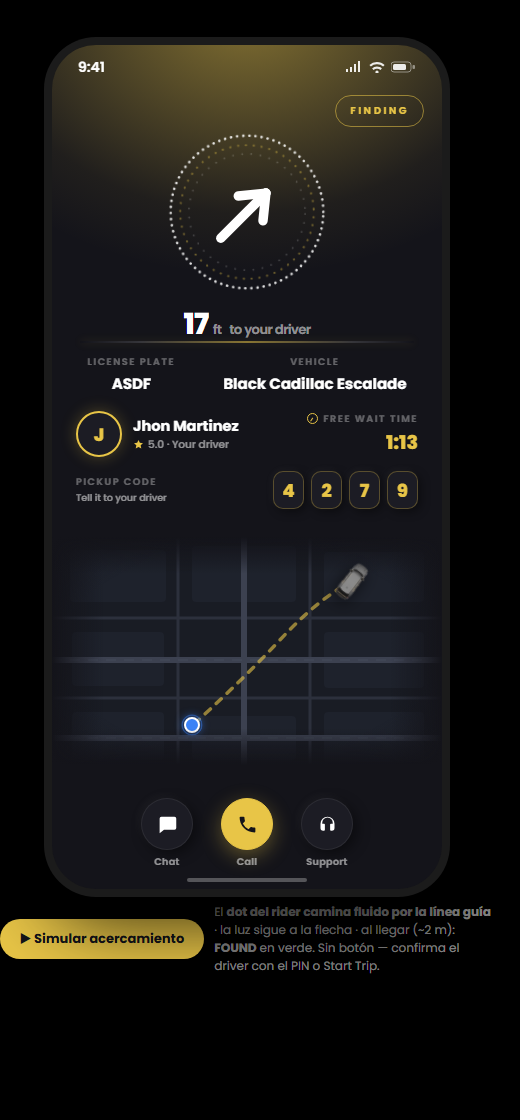
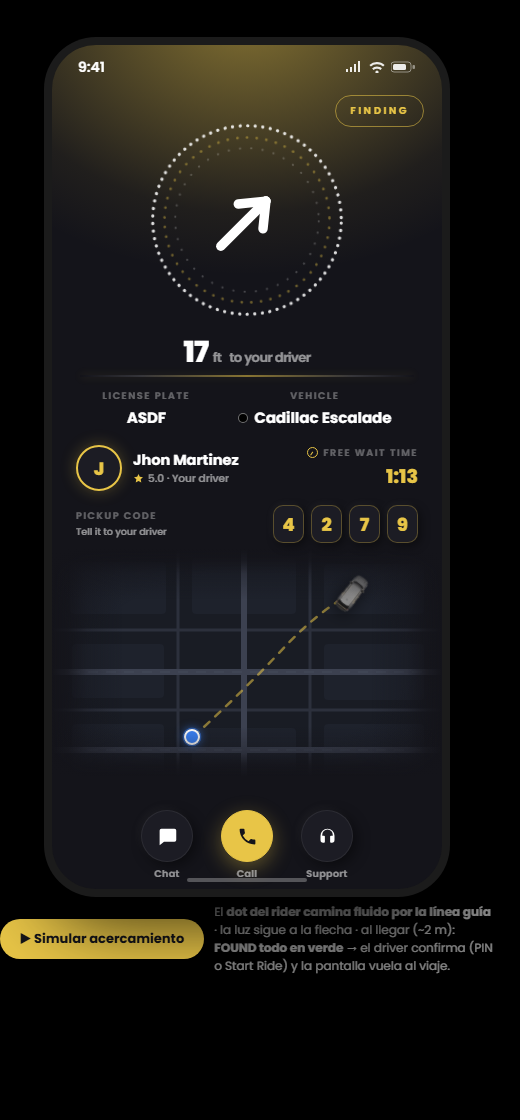
docs(mockups): Find-My actualizada con los refinamientos aplicados (anillo 260, botones/mapa abajo, color dot, guía ligera)

diff --git a/docs/mockups/find_my_pickup_mockup.html b/docs/mockups/find_my_pickup_mockup.html
@@ -37,8 +37,8 @@
   .found .statePill{background:var(--green);color:#14141A;border-color:var(--green)}
 
   /* ── hero: anillo de partículas + aguja (como la app actual) ── */
-  .hero{position:absolute;top:82px;left:0;right:0;display:flex;flex-direction:column;align-items:center;z-index:4}
-  .ringWrap{position:relative;width:170px;height:170px}
+  .hero{position:absolute;top:70px;left:0;right:0;display:flex;flex-direction:column;align-items:center;z-index:4}
+  .ringWrap{position:relative;width:210px;height:210px}
   .particles{position:absolute;inset:0;animation:spin 26s linear infinite}
   .particles circle{transition:stroke .9s ease}
   .found .particles circle{stroke:rgba(34,197,94,.85)}
@@ -58,12 +58,12 @@
   .dist small{font-size:13px;font-weight:600;color:var(--txt2);margin-left:4px}
 
   /* ── divisor con puntas difuminadas ── */
-  .divider{position:absolute;top:296px;left:28px;right:28px;height:1.5px;z-index:4;border-radius:1px;
+  .divider{position:absolute;top:330px;left:28px;right:28px;height:1.5px;z-index:4;border-radius:1px;
     background:linear-gradient(to right, transparent 0%, rgba(255,255,255,.14) 18%, rgba(232,197,71,.55) 50%, rgba(255,255,255,.14) 82%, transparent 100%);
     box-shadow:0 0 8px rgba(232,197,71,.18)}
 
   /* ── ficha: placa / vehículo / driver / wait / PIN ── */
-  .infoCard{position:absolute;top:310px;left:24px;right:24px;z-index:4}
+  .infoCard{position:absolute;top:344px;left:24px;right:24px;z-index:4}
   .specRow{display:flex;justify-content:center;gap:48px;text-align:center}
   .spec .lbl{color:var(--txt3);font-size:9.5px;font-weight:600;letter-spacing:1.6px;text-transform:uppercase}
   .spec .val{color:#fff;font-size:15px;font-weight:700;margin-top:3px}
@@ -96,10 +96,10 @@
     box-shadow:3px 3px 10px rgba(0,0,0,.4),-2px -2px 8px rgba(255,255,255,.04)}
 
   /* ── MINI MAPA top-down en vivo, bordes desvanecidos hacia el fondo ── */
-  .minimap{position:absolute;left:0;right:0;top:492px;bottom:124px;z-index:2;overflow:hidden}
+  .minimap{position:absolute;left:0;right:0;top:504px;bottom:112px;z-index:2;overflow:hidden}
   .minimap svg.mapTiles{position:absolute;inset:0;width:100%;height:100%}
   /* guía rider → driver: dashes fluyendo hacia el carro */
-  .minimap .route{stroke:rgba(232,197,71,.6);stroke-width:3.5;stroke-linecap:round;
+  .minimap .route{stroke:rgba(232,197,71,.55);stroke-width:2.5;stroke-linecap:round;
                   stroke-dasharray:7 8;fill:none;animation:flow 1.1s linear infinite}
   @keyframes flow{to{stroke-dashoffset:-15}}
   .mapFade{position:absolute;inset:0;z-index:3;pointer-events:none;
@@ -116,7 +116,7 @@
   @keyframes halo{0%{transform:scale(.45);opacity:1}100%{transform:scale(1.25);opacity:0}}
 
   /* ── botones: chat / llamar / soporte ── */
-  .actions{position:absolute;bottom:20px;left:0;right:0;z-index:5;display:flex;justify-content:center;gap:28px}
+  .actions{position:absolute;bottom:8px;left:0;right:0;z-index:5;display:flex;justify-content:center;gap:28px}
   .act{display:flex;flex-direction:column;align-items:center;gap:5px;cursor:pointer}
   .act .btn{width:52px;height:52px;border-radius:50%;background:var(--surface);border:1px solid rgba(255,255,255,.07);
             display:flex;align-items:center;justify-content:center;
@@ -202,7 +202,7 @@
   <div class="infoCard">
     <div class="specRow">
       <div class="spec"><div class="lbl">License Plate</div><div class="val">ASDF</div></div>
-      <div class="spec"><div class="lbl">Vehicle</div><div class="val">Black Cadillac Escalade</div></div>
+      <div class="spec"><div class="lbl">Vehicle</div><div class="val" style="display:flex;align-items:center;gap:6px"><span style="width:10px;height:10px;border-radius:50%;background:#000;border:1px solid rgba(255,255,255,.45);display:inline-block"></span>Cadillac Escalade</div></div>
     </div>
     <div class="metaRow">
       <div class="driverRow">
